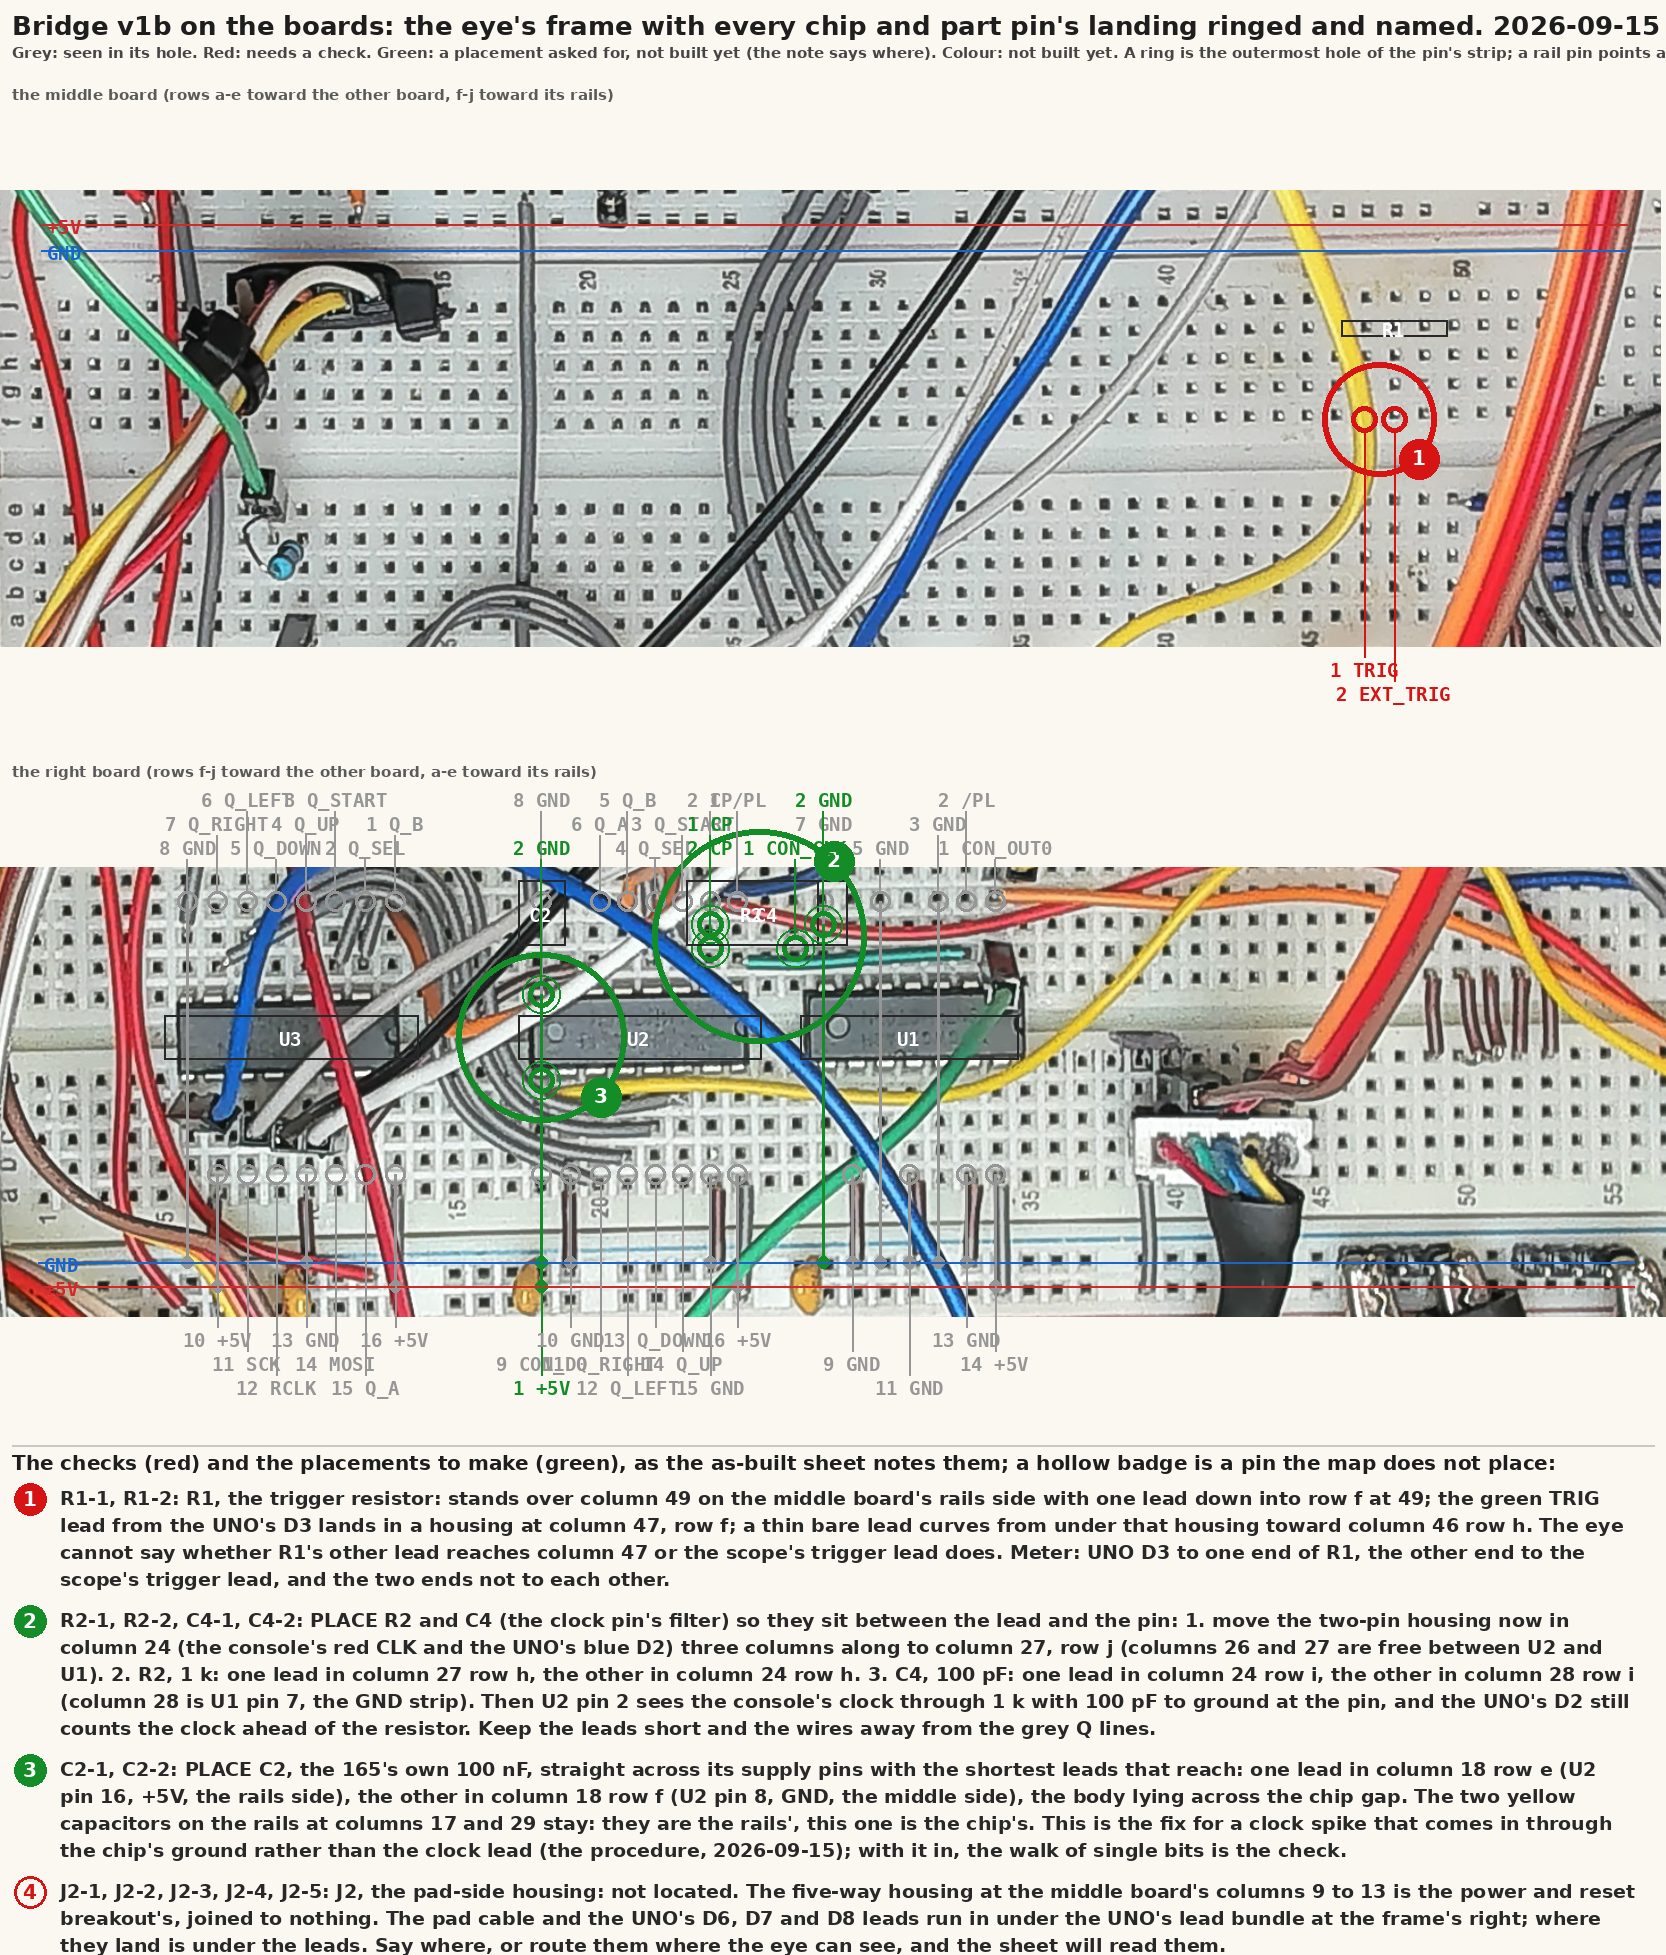
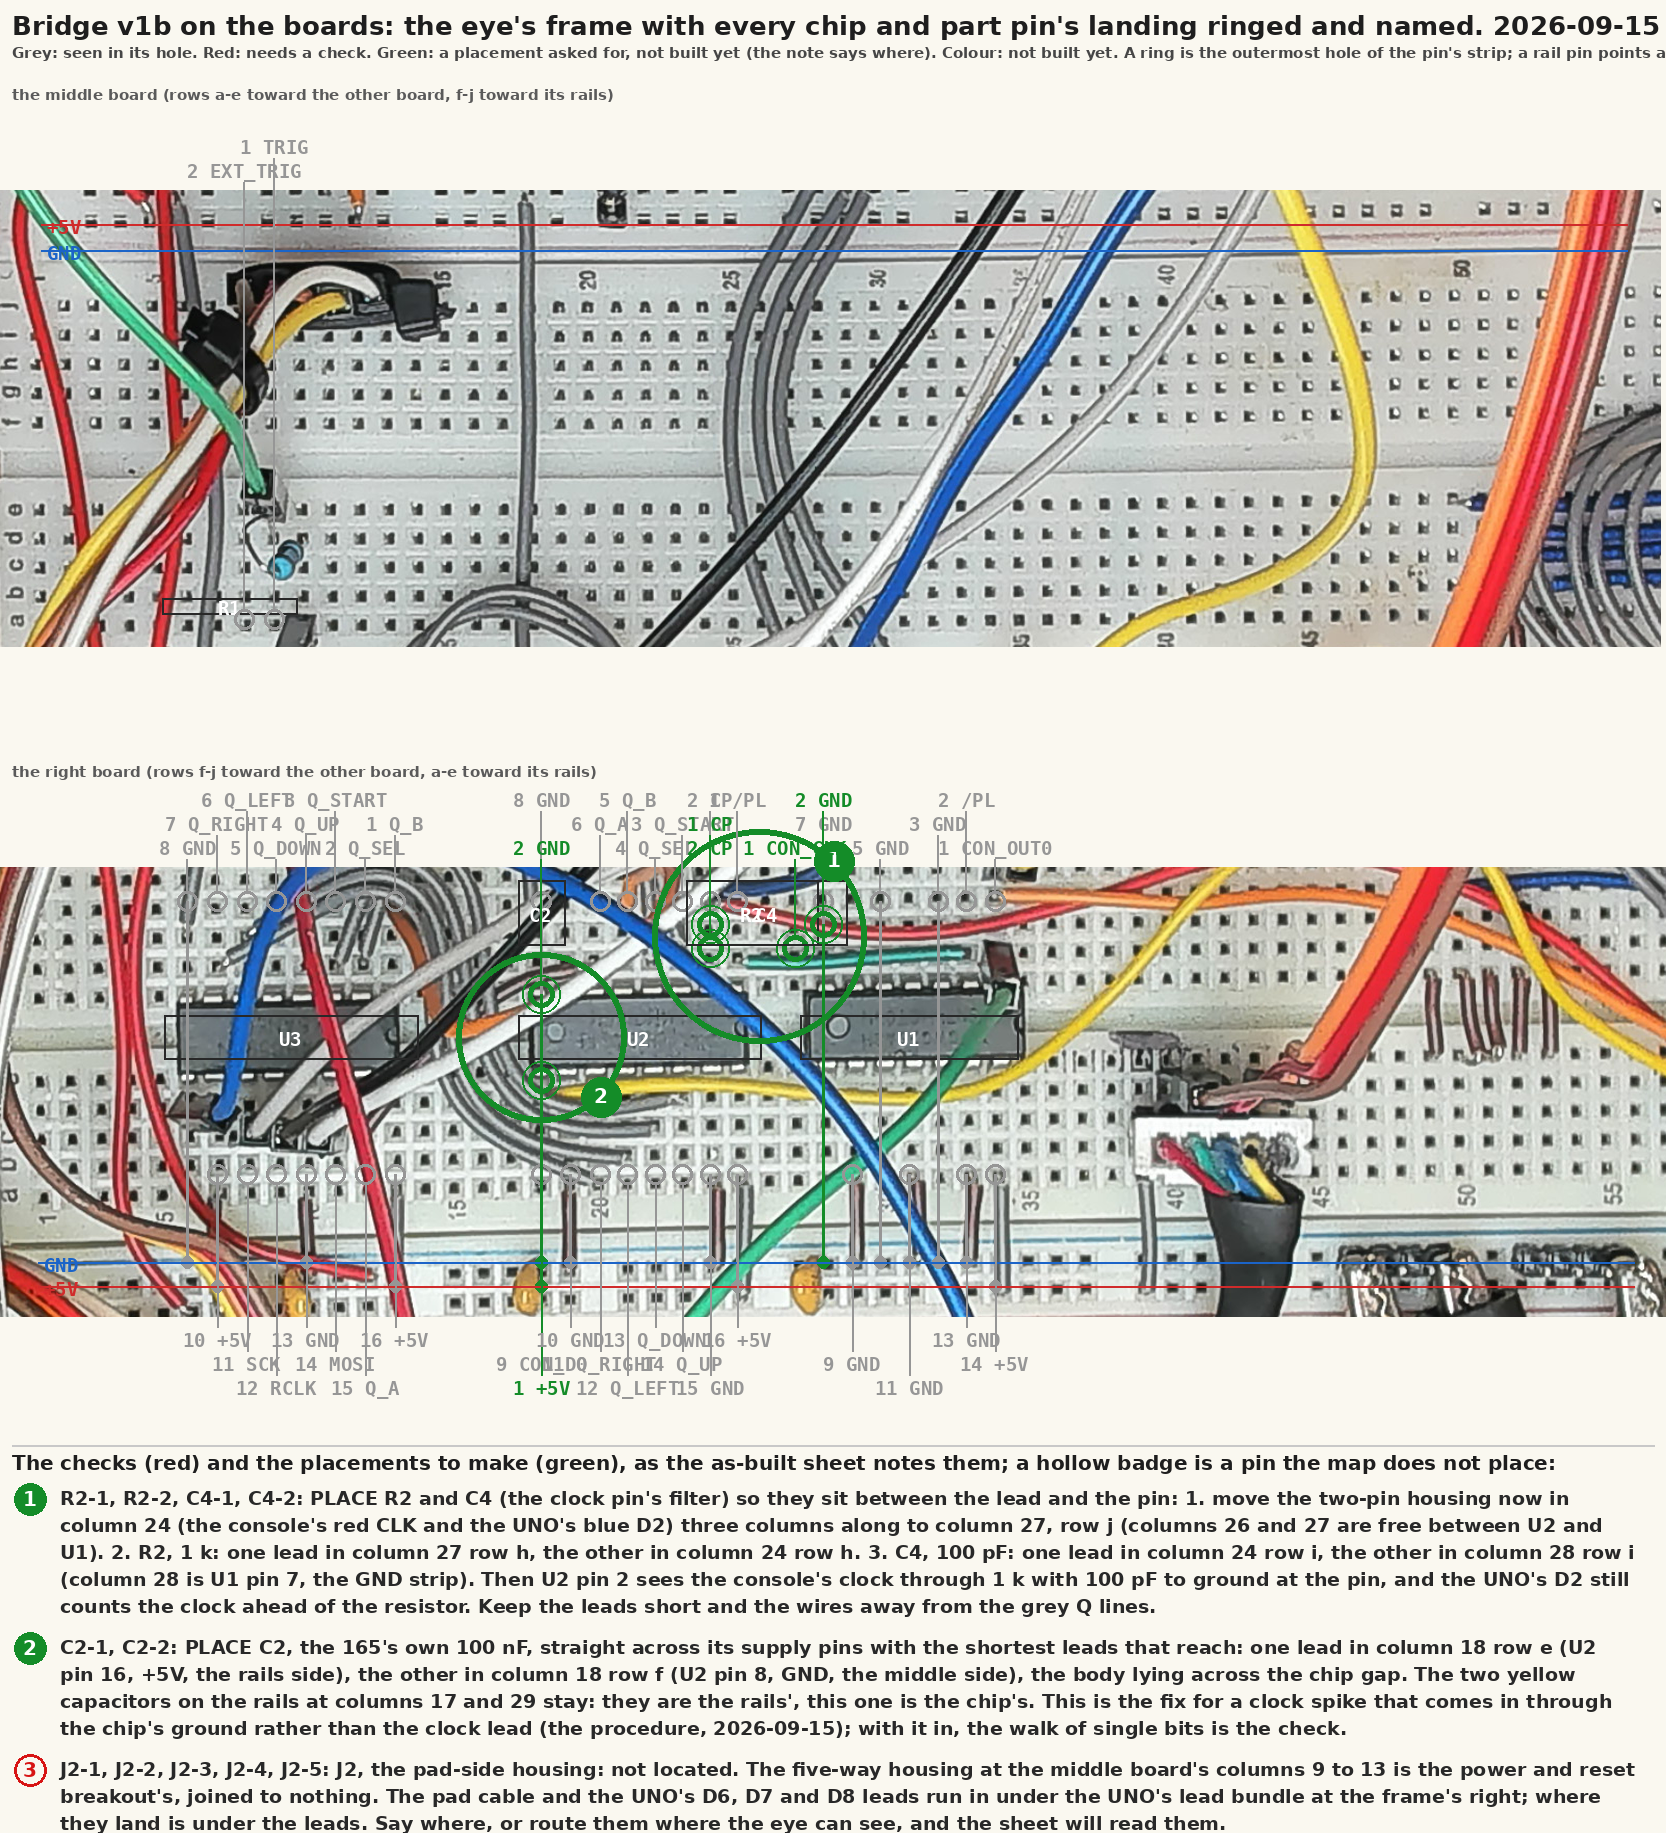
The trigger cleared: R1 placed where it lies, TRIG 20 stops the scope on CH1, the pulse 5.4 V for 874 us
Claude-Session: https://claude.ai/code/session_01BdJ3NUxHSKQzEFUn9ViLv2

diff --git a/docs/lab-notebook.md b/docs/lab-notebook.md
@@ -17,7 +17,7 @@ Those are in the log, marked, and are not counted below.
 
 ## Where the build stands
 
-8 of 8 attempted steps hold, over 20 attempts.
+8 of 8 attempted steps hold, over 21 attempts.
 
 | step | what it proves | attempts | state |
 |---|---|---|---|
@@ -28,7 +28,7 @@ Those are in the log, marked, and are not counted below.
 | 1.2 | The port's idle levels with the console on | 1 | held |
 | 2.1 | The scope on an original pad's port, a game running | 3 | held |
 | 5.1 | The two halves joined, eight clocks per latch on a game | 7 | held |
-| 6.1 | The trigger reaches the scope | 2 | held |
+| 6.1 | The trigger reaches the scope | 3 | held |
 
 ## Instruments
 
@@ -253,6 +253,10 @@ Photograph pending: `docs/lab/05-console-running.jpg`.
 Photograph pending: `docs/lab/06-trigger-cable.jpg`.
 
 **Attempt 2, 2026-09-15 17:38:35**: held. TRIG 20 stopped the scope on CH1
+
+Photograph pending: `docs/lab/06-trigger-cable.jpg`.
+
+**Attempt 3, 2026-09-15 21:14:18**: held. TRIG 20 stopped the scope on CH1
 
 Photograph pending: `docs/lab/06-trigger-cable.jpg`.
 

diff --git a/docs/procedures/2026-09-13-breadboard-qa.md b/docs/procedures/2026-09-13-breadboard-qa.md
@@ -529,3 +529,14 @@ worst residual 8 px) and re-taken: the rings sit on the holes in
 every one. Focus 18. `docs/rig.md` has the dimensions and each
 camera's job and scale; the side eyes' baseline frames are in the lab
 folder.
+
+## The trigger, cleared, 2026-09-15 21:14
+
+R1 flattened and the leads pointed out: the UNO's green D3 lands in a
+housing at column 9 of the middle board's chip-board side, R1 lies in
+row a from column 9 to column 6, and the red lead to the scope's CH1
+takes column 6. The eye places the parts; the instrument settles the
+net: step 6.1 run again, TRIG 20 stopped the scope on CH1, and the
+pulse measures 5.4 V high, 874 us wide (`docs/lab/16-trigger-on-ch1.png`),
+the firmware's millisecond less the loop it was raised in. R1 is done
+on the sheet.

diff --git a/docs/build-guide.md b/docs/build-guide.md
@@ -277,7 +277,7 @@ Photographs:
 
 - `docs/lab/06-trigger-cable.jpg`  (wanted)
 
-> Last run 2026-09-15 17:38:35: held. TRIG 20 stopped the scope on CH1
+> Last run 2026-09-15 21:14:18: held. TRIG 20 stopped the scope on CH1
 
 ### 6.2  The reset optocoupler pulses the console
 
